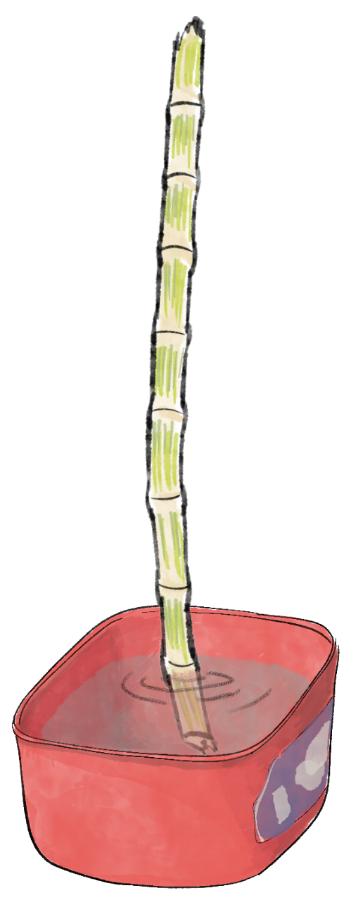
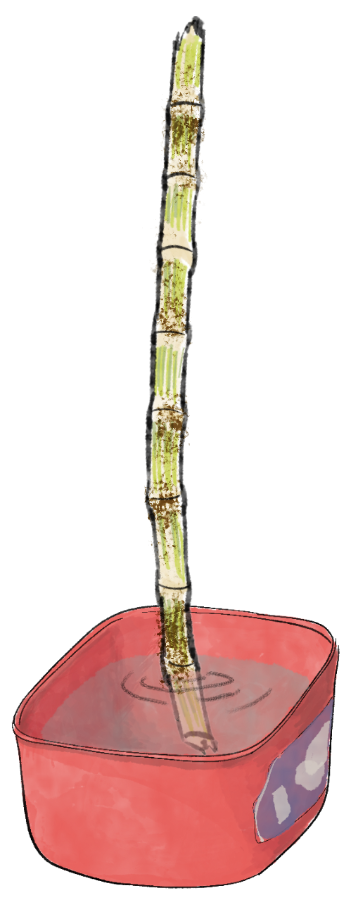
update peel and clean animations

diff --git a/src/routes/sugar-cane-water/intro/PeelingSugarCane.svelte b/src/routes/sugar-cane-water/intro/PeelingSugarCane.svelte
@@ -1,19 +1,35 @@
 <script lang="ts">
   import { base } from '$app/paths';
-  import { clamp } from '$lib/utils/math';
 
   export let progress = 0;
-  $: brightness = clamp(progress / 3 + 0.7, 0, 1);
 
-  const src = `${base}/img/sugar-cane-water/cut-cane.png`;
+  const cleanImg = `${base}/img/sugar-cane-water/cut-cane-knobbly.png`;
+  const dirtyImg = `${base}/img/sugar-cane-water/cut-cane-peeled.png`;
 </script>
 
-<div class="wrapper" style="filter: brightness({brightness}); background-image: url({src});" />
+<div class="wrapper">
+  <div class="image" style="background-image: url({cleanImg});" />
+  <div class="image" style="opacity: {progress}; background-image: url({dirtyImg});" />
+</div>
 
 <style>
   .wrapper {
-    width: 57px;
-    height: 540px;
+    position: relative;
+    width: calc(57px * 1);
+    height: calc(540px * 1);
+  }
+
+  @media (max-width: 600px) {
+    .wrapper {
+      width: calc(57px * 1);
+      height: calc(540px * 1);
+    }
+  }
+
+  .image {
+    position: absolute;
+    width: 100%;
+    height: 100%;
     background-size: contain;
     background-position: center center;
     background-repeat: no-repeat;
